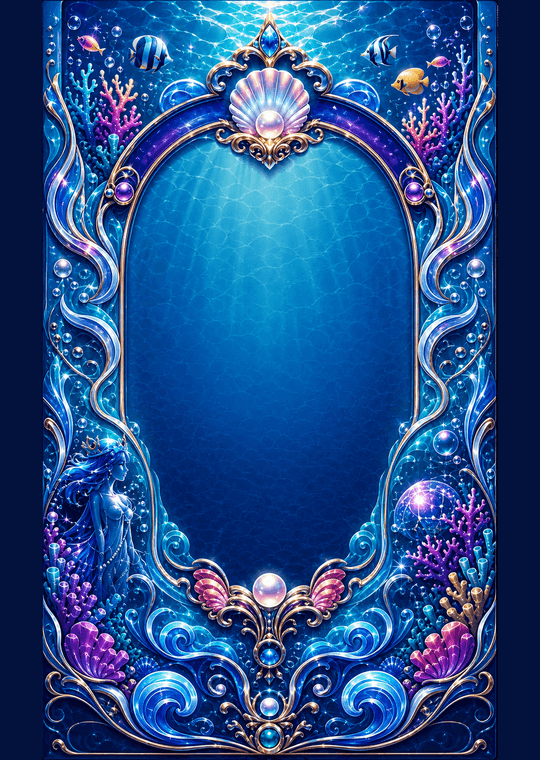
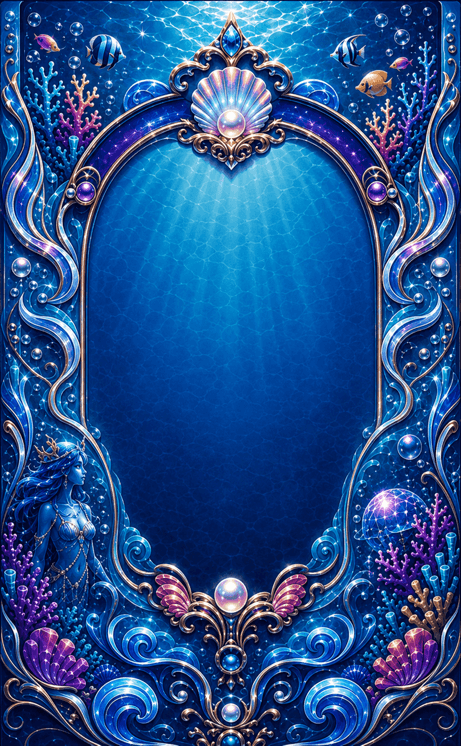
Umi visuals

diff --git a/tests/doorstop_engine_spec.cpp b/tests/doorstop_engine_spec.cpp
@@ -57,6 +57,91 @@ StrikeStats renderStrike(float sampleRate, float velocity, float maxSeconds = 10
 	return stats;
 }
 
+float worstRetriggerSubBassPeak(float antiThumpCutoffHz, float velocity) {
+	constexpr float sampleRate = 48000.f;
+	constexpr float dt = 1.f / sampleRate;
+	constexpr float analysisCutoffHz = 60.f;
+	const float analysisAlpha = 1.f - std::exp(
+		-2.f * 3.14159265358979323846f * analysisCutoffHz * dt);
+	float worstPeak = 0.f;
+
+	// Sweep two periods of the 16 Hz spring cycle. Keeping only the body
+	// path makes this a focused guard against the sub-bass excursion rather
+	// than a test of the intentionally bright modal and impact components.
+	for (int delaySamples = 0; delaySamples <= 6000; delaySamples += 64) {
+		doorstop::Engine engine;
+		engine.setSoundModel(doorstop::SoundModel::Classic);
+		auto& tuning = engine.getTuning();
+		tuning.antiThumpCutoffHz = antiThumpCutoffHz;
+		tuning.bodyGain = 0.72f;
+		tuning.modalGain = 0.f;
+		tuning.impactGain = 0.f;
+		tuning.outputDrive = 0.25f;
+		engine.setSampleRate(sampleRate);
+		engine.strike(velocity);
+		for (int i = 0; i < delaySamples; ++i) {
+			engine.process(dt);
+		}
+		engine.strike(velocity);
+
+		float lowpass = 0.f;
+		for (int i = 0; i < 6000; ++i) {
+			const float sample = engine.process(dt).outputVolts;
+			lowpass += (sample - lowpass) * analysisAlpha;
+			worstPeak = std::max(worstPeak, std::fabs(lowpass));
+		}
+	}
+	return worstPeak;
+}
+
+float bodyStrikePeak(float antiThumpCutoffHz, float velocity) {
+	constexpr float sampleRate = 48000.f;
+	constexpr float dt = 1.f / sampleRate;
+	doorstop::Engine engine;
+	engine.setSoundModel(doorstop::SoundModel::Classic);
+	auto& tuning = engine.getTuning();
+	tuning.antiThumpCutoffHz = antiThumpCutoffHz;
+	tuning.bodyGain = 0.72f;
+	tuning.modalGain = 0.f;
+	tuning.impactGain = 0.f;
+	tuning.outputDrive = 0.25f;
+	engine.setSampleRate(sampleRate);
+	engine.strike(velocity);
+	float peak = 0.f;
+	for (int i = 0; i < 12000; ++i) {
+		peak = std::max(peak, std::fabs(engine.process(dt).outputVolts));
+	}
+	return peak;
+}
+
+Result retriggerSubBassIsLimited() {
+	doorstop::Engine defaults;
+	const float guardedPeak10V = worstRetriggerSubBassPeak(
+		defaults.getTuning().antiThumpCutoffHz, 1.f);
+	const float legacyPeak10V = worstRetriggerSubBassPeak(0.1f, 1.f);
+	const float guardedPeak8V = worstRetriggerSubBassPeak(
+		defaults.getTuning().antiThumpCutoffHz, 0.8f);
+	const float legacyPeak8V = worstRetriggerSubBassPeak(0.1f, 0.8f);
+	const float defaultHitPeak = bodyStrikePeak(
+		defaults.getTuning().antiThumpCutoffHz, 0.5f);
+	const float legacyDefaultHitPeak = bodyStrikePeak(0.1f, 0.5f);
+	const float defaultHitChange = std::fabs(defaultHitPeak - legacyDefaultHitPeak)
+		/ std::max(legacyDefaultHitPeak, 1e-6f);
+	const bool pass = closeEnough(defaults.getTuning().dcBlockerCutoffHz, 10.f)
+		&& closeEnough(defaults.getTuning().antiThumpCutoffHz, 35.f)
+		&& closeEnough(defaults.getTuning().antiThumpOnsetShaped, 0.30f)
+		&& closeEnough(defaults.getTuning().antiThumpFullShaped, 0.75f)
+		&& guardedPeak10V < legacyPeak10V * 0.75f
+		&& guardedPeak8V < legacyPeak8V * 0.75f
+		&& defaultHitChange < 0.01f;
+	return {"Velocity-aware anti-thump limits hard retriggers only", pass,
+		"10V=" + std::to_string(guardedPeak10V)
+			+ "/" + std::to_string(legacyPeak10V)
+			+ " 8V=" + std::to_string(guardedPeak8V)
+			+ "/" + std::to_string(legacyPeak8V)
+			+ " defaultChange=" + std::to_string(defaultHitChange)};
+}
+
 Result velocityCurve() {
 	const float neg = doorstop::Engine::shapeMagnitude(-1.f);
 	const float zero = doorstop::Engine::shapeMagnitude(0.f);
@@ -553,6 +638,7 @@ int main() {
 	results.push_back(zeroStrikeSleeps());
 	results.push_back(bipolarStrikeDirection());
 	results.push_back(strikeScaling());
+	results.push_back(retriggerSubBassIsLimited());
 	results.push_back(sampleRateStability());
 	results.push_back(fullyBrokenInStability());
 	results.push_back(nonFiniteRecoveryPreservesBreakIn());

diff --git a/src/DoorstopEngine.cpp b/src/DoorstopEngine.cpp
@@ -99,6 +99,11 @@ void Engine::updateSampleRateCoefficients() {
 	lightDecay = safeExpDecay(tuning.strikeLightDecaySeconds, sampleTime);
 	thumpDecayGamma = LN_1000 / std::max(tuning.thumpDecayT60Seconds, 1e-4f);
 	dcPole = std::exp(-2.f * PI * std::max(tuning.dcBlockerCutoffHz, 0.1f) * sampleTime);
+	antiThumpPole = std::exp(
+		-2.f * PI * std::max(tuning.antiThumpCutoffHz, 0.1f) * sampleTime);
+	antiThumpDecay = std::exp(
+		-LN_1000 * sampleTime
+			/ std::max(tuning.antiThumpDecayT60Seconds, 1e-4f));
 
 	const float maxCutoff = 0.45f * sampleRate;
 	const float softCutoff = std::min(tuning.softImpactCutoffHz, maxCutoff);
@@ -191,6 +196,9 @@ void Engine::clearDynamicState() {
 	quietTime = 0.f;
 	dcPreviousInput = 0.f;
 	dcPreviousOutput = 0.f;
+	antiThumpEnvelope = 0.f;
+	antiThumpPreviousInput.fill(0.f);
+	antiThumpPreviousOutput.fill(0.f);
 	contactPhase = 0.f;
 	contactSignal = 0.f;
 	contactBodySignal = 0.f;
@@ -318,6 +326,13 @@ void Engine::strike(float normalizedVelocity) {
 		+ tuning.maximumStrikeModalBoost * maximumForceBlend;
 	const float impactBoost = 1.f
 		+ tuning.maximumStrikeImpactBoost * maximumForceBlend;
+	const float antiThumpRange = std::max(
+		tuning.antiThumpFullShaped - tuning.antiThumpOnsetShaped, 1e-4f);
+	const float antiThumpLinear = clampf(
+		(shaped - tuning.antiThumpOnsetShaped) / antiThumpRange, 0.f, 1.f);
+	const float antiThumpBlend =
+		antiThumpLinear * antiThumpLinear * (3.f - 2.f * antiThumpLinear);
+	antiThumpEnvelope = std::max(antiThumpEnvelope, antiThumpBlend);
 	if (strikeModel == SoundModel::DispersiveSpring) {
 		const float waveStrength = signedShaped
 			* (0.65f + 0.75f * shaped * shaped) * impulseBoost;
@@ -611,6 +626,20 @@ float Engine::processImpact() {
 	return strikeNoise + thump;
 }
 
+float Engine::processAntiThump(float input) {
+	float filtered = input;
+	for (int stage = 0; stage < int(antiThumpPreviousInput.size()); ++stage) {
+		const float output = filtered - antiThumpPreviousInput[stage]
+			+ antiThumpPole * antiThumpPreviousOutput[stage];
+		antiThumpPreviousInput[stage] = filtered;
+		antiThumpPreviousOutput[stage] = output;
+		filtered = output;
+	}
+	const float amount = clampf(antiThumpEnvelope, 0.f, 1.f);
+	antiThumpEnvelope *= antiThumpDecay;
+	return lerpf(input, filtered, amount);
+}
+
 float Engine::processDcBlocker(float input) {
 	const float output = input - dcPreviousInput + dcPole * dcPreviousOutput;
 	dcPreviousInput = input;
@@ -622,6 +651,8 @@ bool Engine::allFinite() const {
 	if (!std::isfinite(displacement) || !std::isfinite(springVelocity)
 		|| !std::isfinite(acceleration) || !std::isfinite(strikeLightEnvelope)
 		|| !std::isfinite(dcPreviousInput) || !std::isfinite(dcPreviousOutput)
+		|| !std::isfinite(antiThumpEnvelope)
+		|| !std::isfinite(antiThumpPole) || !std::isfinite(antiThumpDecay)
 		|| !std::isfinite(impact.noiseEnvelope) || !std::isfinite(impact.noiseBrightness)
 		|| !std::isfinite(impact.noiseLowpass) || !std::isfinite(impact.noiseLowReject)
 		|| !std::isfinite(impact.thumpPosition) || !std::isfinite(impact.thumpVelocity)
@@ -647,6 +678,12 @@ bool Engine::allFinite() const {
 	}
 	for (float state : waveguideAllpassState) {
 		if (!std::isfinite(state)) {
+			return false;
+		}
+	}
+	for (int stage = 0; stage < int(antiThumpPreviousInput.size()); ++stage) {
+		if (!std::isfinite(antiThumpPreviousInput[stage])
+			|| !std::isfinite(antiThumpPreviousOutput[stage])) {
 			return false;
 		}
 	}
@@ -687,7 +724,7 @@ Frame Engine::process(float requestedSampleTime) {
 		return {};
 	}
 
-	const float body = processSpring();
+	const float body = processAntiThump(processSpring());
 	const float contact = processCoilContact();
 	const float waveguide = processDispersiveSpring();
 	const float modal = processModes();

diff --git a/src/UmiWidget.cpp b/src/UmiWidget.cpp
@@ -68,28 +68,6 @@ struct UmiPanelArtWidget final : TransparentWidget {
 		nvgFillPaint(args.vg, imagePaint);
 		nvgFill(args.vg);
 
-		const float sideWidth = box.size.x * (84.f / 1080.f);
-		const NVGpaint leftRail = nvgLinearGradient(args.vg, 0.f, 0.f, sideWidth, 0.f,
-			nvgRGBA(1, 10, 48, 245), nvgRGBA(12, 124, 185, 155));
-		nvgBeginPath(args.vg);
-		nvgRect(args.vg, 0.f, 0.f, sideWidth, box.size.y);
-		nvgFillPaint(args.vg, leftRail);
-		nvgFill(args.vg);
-		const NVGpaint rightRail = nvgLinearGradient(args.vg, box.size.x - sideWidth, 0.f, box.size.x, 0.f,
-			nvgRGBA(12, 124, 185, 155), nvgRGBA(1, 10, 48, 245));
-		nvgBeginPath(args.vg);
-		nvgRect(args.vg, box.size.x - sideWidth, 0.f, sideWidth, box.size.y);
-		nvgFillPaint(args.vg, rightRail);
-		nvgFill(args.vg);
-		for (float x : {sideWidth, box.size.x - sideWidth}) {
-			nvgBeginPath(args.vg);
-			nvgMoveTo(args.vg, x, 0.f);
-			nvgLineTo(args.vg, x, box.size.y);
-			nvgStrokeColor(args.vg, nvgRGBA(244, 204, 111, 185));
-			nvgStrokeWidth(args.vg, 1.f);
-			nvgStroke(args.vg);
-		}
-
 		const float utilityBandY = mm2px(109.f);
 		nvgBeginPath(args.vg);
 		nvgRoundedRect(args.vg, mm2px(2.2f), utilityBandY,
@@ -129,7 +107,7 @@ struct UmiLabelOverlayWidget final : TransparentWidget {
 		drawLabel(args, "CV", 16.f, 31.3f, 1.1f, cvColor);
 		drawLabel(args, "BOUNCE", 6.5f, 51.8f, 1.05f, labelColor);
 		drawLabel(args, "CV", 16.f, 51.8f, 1.1f, cvColor);
-		drawLabel(args, "DRAG", 11.f, 72.8f, 1.25f, labelColor);
+		drawLabel(args, "DRAG", 8.f, 21.3f, 1.25f, labelColor);
 		drawLabel(args, "TILT", 84.9f, 31.3f, 1.25f, labelColor);
 		drawLabel(args, "CV", 75.4f, 31.3f, 1.1f, cvColor);
 		drawLabel(args, "CHAOS", 84.9f, 51.8f, 1.1f, labelColor);
@@ -444,8 +422,8 @@ UmiWidget::UmiWidget(Umi* module) {
 		return mm2px(point);
 	};
 	auto addKnob = [&](int paramId, const char* id, Vec fallbackMm, bool bipolar = false) {
-		if (bipolar) addParam(createParamCentered<BipolarTinyClockworkGearKnob>(anchor(id, fallbackMm), module, paramId));
-		else addParam(createParamCentered<TinyClockworkGearKnob>(anchor(id, fallbackMm), module, paramId));
+		if (bipolar) addParam(createParamCentered<BipolarDarkTinyClockworkGearKnob>(anchor(id, fallbackMm), module, paramId));
+		else addParam(createParamCentered<DarkTinyClockworkGearKnob>(anchor(id, fallbackMm), module, paramId));
 	};
 	auto addButton = [&](int paramId, int lightId, const char* id, Vec fallbackMm) {
 		addParam(createLightParamCentered<SmallGoldApertureButton>(anchor(id, fallbackMm), module, paramId, lightId));
@@ -465,7 +443,7 @@ UmiWidget::UmiWidget(Umi* module) {
 	addInputPort(Umi::GRAVITY_CV_INPUT, "gravity_cv_input", Vec(16.f, 37.5f));
 	addKnob(Umi::BOUNCE_PARAM, "bounce_param", Vec(6.5f, 58.f));
 	addInputPort(Umi::BOUNCE_CV_INPUT, "bounce_cv_input", Vec(16.f, 58.f));
-	addKnob(Umi::DRAG_PARAM, "drag_param", Vec(11.f, 79.f));
+	addKnob(Umi::DRAG_PARAM, "drag_param", Vec(8.f, 26.5f));
 
 	addKnob(Umi::TILT_PARAM, "tilt_param", Vec(84.9f, 37.5f), true);
 	addInputPort(Umi::TILT_CV_INPUT, "tilt_cv_input", Vec(75.4f, 37.5f));
@@ -480,10 +458,6 @@ UmiWidget::UmiWidget(Umi* module) {
 		addOutputPort(Umi::GATES_OUTPUT + i, outputIds[i], Vec(8.f + 12.57f * i, 118.f));
 	}
 
-	addChild(createWidgetCentered<TorxScrew>(anchor("screw_tl", Vec(3.f, 3.f))));
-	addChild(createWidgetCentered<TorxScrew>(anchor("screw_tr", Vec(88.4f, 3.f))));
-	addChild(createWidgetCentered<TorxScrew>(anchor("screw_bl", Vec(3.f, 125.5f))));
-	addChild(createWidgetCentered<TorxScrew>(anchor("screw_br", Vec(88.4f, 125.5f))));
 	previewBuildTimer.markAnchorsDone();
 }
 

diff --git a/src/PanelAnchorAtlas.cpp b/src/PanelAnchorAtlas.cpp
@@ -27,7 +27,7 @@ static const SvgAtlasRecord kSvgAtlas[] = {
 	{"res/Deepcache.labels.svg", 49552ull, 0xe52486ab856f2969ull},
 	{"res/Deepcache.panel.svg", 3715ull, 0x385be6650246be39ull},
 	{"res/Deepcache.svg", 12529ull, 0xe962117110860cedull},
-	{"res/Umi.svg", 4620ull, 0x618472f07de1d9b2ull},
+	{"res/Umi.svg", 4406ull, 0xd2c311e73a04e5daull},
 	{"res/bifurx.labels.svg", 48991ull, 0x726b4415a74a6cd6ull},
 	{"res/bifurx.panel.svg", 18250ull, 0x2f29aaa9a7b914cbull},
 	{"res/bifurx.svg", 29820ull, 0x1b89d600e0a28e44ull},
@@ -94,7 +94,7 @@ static const AnchorAtlasRecord kAnchorAtlas[] = {
 	{3, "gravity_cv_input", 5u, 1600.f, 3750.f, 0.f, 0.f, 0.f, 0.f, 180.f},
 	{3, "bounce_param", 5u, 650.f, 5800.f, 0.f, 0.f, 0.f, 0.f, 180.f},
 	{3, "bounce_cv_input", 5u, 1600.f, 5800.f, 0.f, 0.f, 0.f, 0.f, 180.f},
-	{3, "drag_param", 5u, 1100.f, 7900.f, 0.f, 0.f, 0.f, 0.f, 180.f},
+	{3, "drag_param", 5u, 800.f, 2650.f, 0.f, 0.f, 0.f, 0.f, 180.f},
 	{3, "tilt_param", 5u, 8490.f, 3750.f, 0.f, 0.f, 0.f, 0.f, 180.f},
 	{3, "tilt_cv_input", 5u, 7540.f, 3750.f, 0.f, 0.f, 0.f, 0.f, 180.f},
 	{3, "chaos_param", 5u, 8490.f, 5800.f, 0.f, 0.f, 0.f, 0.f, 180.f},
@@ -108,10 +108,6 @@ static const AnchorAtlasRecord kAnchorAtlas[] = {
 	{3, "velocity_output", 5u, 5828.f, 11800.f, 0.f, 0.f, 0.f, 0.f, 180.f},
 	{3, "position_output", 5u, 7085.f, 11800.f, 0.f, 0.f, 0.f, 0.f, 180.f},
 	{3, "activity_output", 5u, 8342.f, 11800.f, 0.f, 0.f, 0.f, 0.f, 180.f},
-	{3, "screw_tl", 5u, 300.f, 300.f, 0.f, 0.f, 0.f, 0.f, 100.f},
-	{3, "screw_tr", 5u, 8840.f, 300.f, 0.f, 0.f, 0.f, 0.f, 100.f},
-	{3, "screw_bl", 5u, 300.f, 12550.f, 0.f, 0.f, 0.f, 0.f, 100.f},
-	{3, "screw_br", 5u, 8840.f, 12550.f, 0.f, 0.f, 0.f, 0.f, 100.f},
 	{5, "black_background", 3u, 4553.82826f, 7441.0425f, 986.18201f, 997.229f, 7135.2925f, 12887.627f, 0.f},
 	{5, "gray_outline", 3u, 6082.8187f, 7441.0425f, 1096.182f, 1107.229f, 9973.2734f, 12667.627f, 0.f},
 	{5, "outputs", 3u, 4513.5499f, 11506.2505f, 3974.6584f, 10837.059f, 1077.783f, 1338.3831f, 0.f},

diff --git a/src/DoorstopEngine.hpp b/src/DoorstopEngine.hpp
@@ -78,6 +78,10 @@ struct Tuning {
 	float thumpDecayT60Seconds = 0.11f;
 	float strikeLightDecaySeconds = 0.075f;
 	float dcBlockerCutoffHz = 10.f;
+	float antiThumpCutoffHz = 35.f;
+	float antiThumpDecayT60Seconds = 0.65f;
+	float antiThumpOnsetShaped = 0.30f;
+	float antiThumpFullShaped = 0.75f;
 
 	float sleepEnergyThreshold = 1e-8f;
 	float sleepEnvelopeThreshold = 1e-5f;
@@ -180,6 +184,9 @@ private:
 	float quietTime = 0.f;
 	float dcPreviousInput = 0.f;
 	float dcPreviousOutput = 0.f;
+	float antiThumpEnvelope = 0.f;
+	std::array<float, 2> antiThumpPreviousInput {};
+	std::array<float, 2> antiThumpPreviousOutput {};
 	float contactPhase = 0.f;
 	float contactSignal = 0.f;
 	float contactBodySignal = 0.f;
@@ -202,6 +209,8 @@ private:
 	float thumpDecayGamma = 0.f;
 	float lightDecay = 0.f;
 	float dcPole = 0.f;
+	float antiThumpPole = 0.f;
+	float antiThumpDecay = 0.f;
 	float softNoiseAlpha = 0.f;
 	float hardNoiseAlpha = 0.f;
 	float noiseRejectAlpha = 0.f;
@@ -235,6 +244,7 @@ private:
 	float processDispersiveSpring();
 	float processModes();
 	float processImpact();
+	float processAntiThump(float input);
 	float processDcBlocker(float input);
 	bool allFinite() const;
 	bool belowSleepThreshold(float outputVolts) const;
